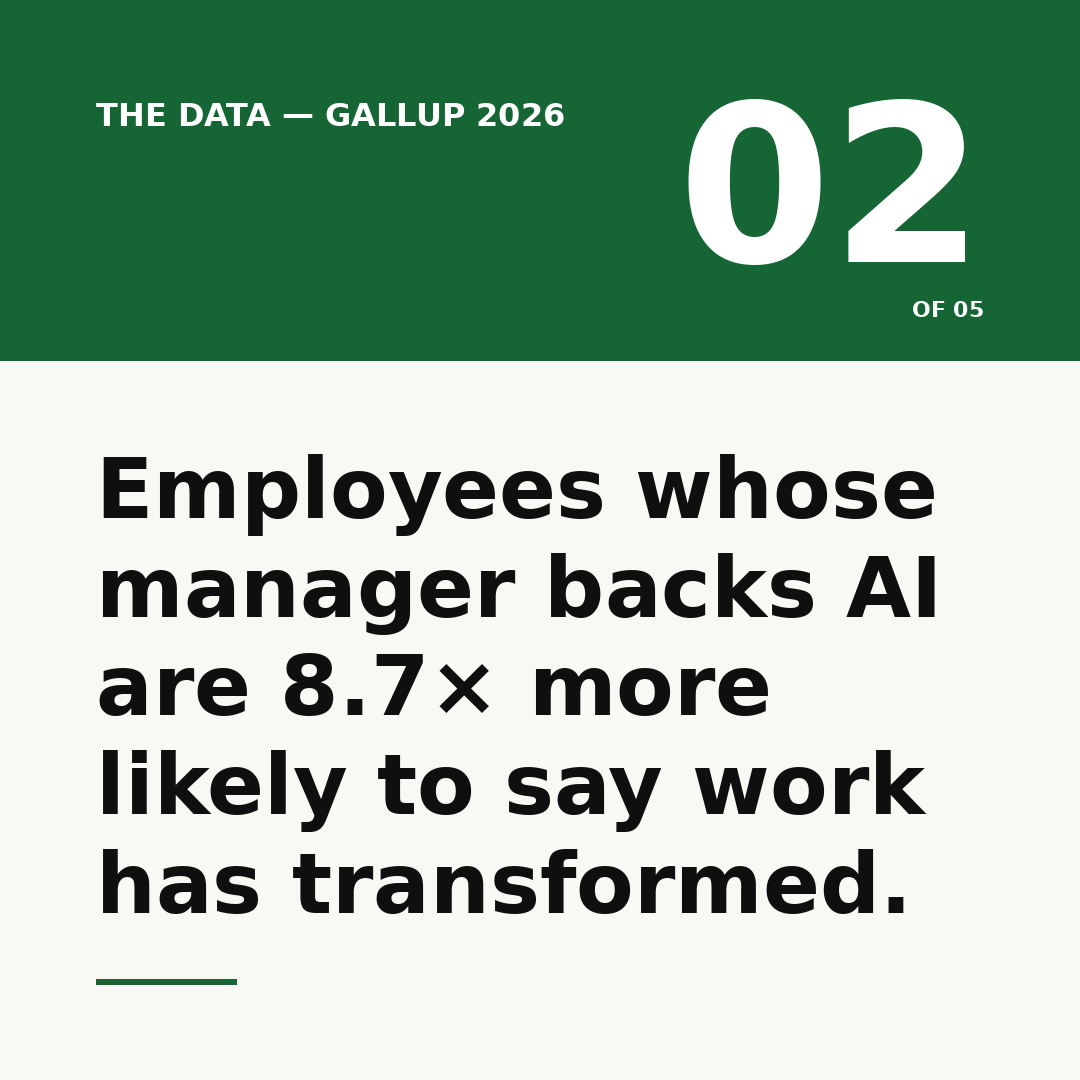
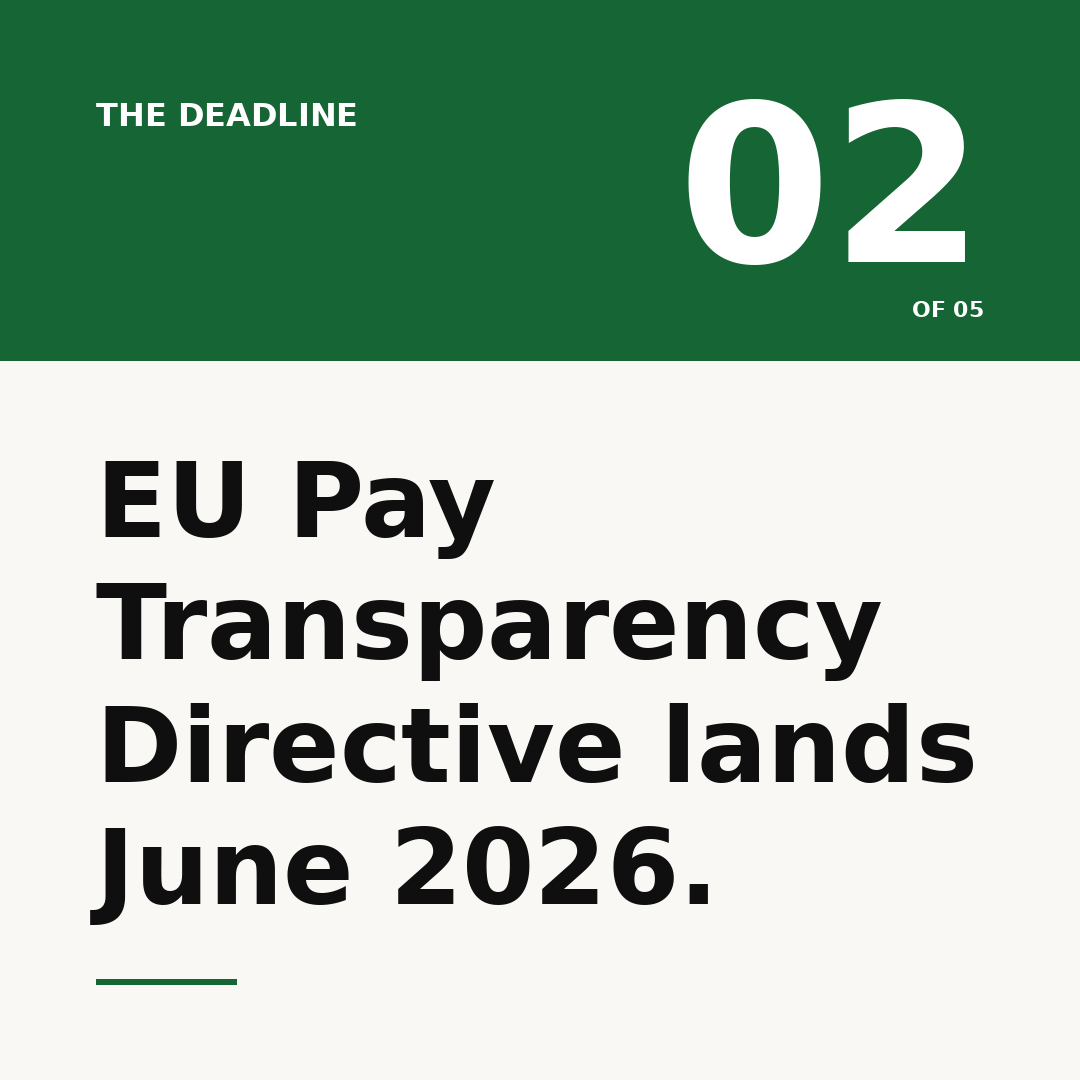
/linkedin-post run for 2026-05-19 (v2): three new themes
Fresh angles drawn from themes not used in the morning batch:
wellbeing/FOBO (Mercer/Gallup/Deloitte/WTW), internal mobility
(Deloitte/McKinsey/Mercer), and pay transparency (Aon/WTW with
EU directive landing June 2026). Same source catalog, same Style C
carousels, same word ceiling. Source catalog unchanged — no new
firms cleared the discovery bar this run.

Changed region(s): [[0.0611, 0.3972, 0.9167, 0.8556], [0.1833, 0.0917, 0.5194, 0.1222]]

diff --git a/posts/drafts/best-practices-2026-05-19.md b/posts/drafts/best-practices-2026-05-19.md
@@ -1,87 +1,84 @@
-# Daily HR best-practices posts — 2026-05-19
+# Daily HR best-practices posts — 2026-05-19 (v2)
 
 Source brief: posts/drafts/best-practices-research-2026-05-19.md
-Themes covered: #1 (Human-AI work redesign, 6 firms), #2 (AI literacy/reskilling, 6 firms), #3 (Manager engagement, 3 firms).
+Themes covered: #4 (Wellbeing & FOBO, 4 firms), #5 (Internal mobility/skills, 3 firms), #7 (Pay transparency, 2 firms).
+
+Previous run (themes #1/#2/#3 — work design, reskill rate, managers) preserved in git at commit `c2400ef`.
 
 ---
 
-## Option 1 — ai-is-work-design
-- **Theme:** Human-AI work redesign as the central operating challenge
-- **Source reports:** BCG "AI Will Reshape More Jobs Than It Replaces" (2026); Mercer Global Talent Trends 2026; Deloitte 2026 Global Human Capital Trends
-- **Source URLs:** https://www.bcg.com/publications/2026/ai-will-reshape-more-jobs-than-it-replaces · https://www.mercer.com/about/newsroom/mercer-s-global-talent-trends-2026-report/
-- **Image (single):** posts/drafts/images/2026-05-19-option-1.png
+## Option 1 — wellbeing-is-the-velocity-gate
+- **Theme:** Wellbeing, burnout and FOBO as productivity threat
+- **Source reports:** Mercer Global Talent Trends 2026; Gallup State of the Global Workplace 2026; Deloitte 2026 Global Human Capital Trends; WTW 2026 Global Medical Trends
+- **Source URLs:** https://www.mercer.com/about/newsroom/mercer-s-global-talent-trends-2026-report/ · https://www.gallup.com/workplace/349484/state-of-the-global-workplace.aspx
 - **Carousel (5 slides):** posts/drafts/carousels/2026-05-19-option-1/
-  - slide-1 · Future of work · "AI isn't a tech project. It's a work-design project."
-  - slide-2 · The data — BCG 2026 · "50–55% of jobs will be significantly reshaped within three years."
-  - slide-3 · What's really happening · "The shift isn't from people to machines. It's in how the work itself is shaped."
-  - slide-4 · The CHRO read · "Firms making AI ROI in 2026 redesigned roles first, then deployed tools."
-  - slide-5 · Your move · "Where does work design sit in your AI stack?"
-- **Image alt:** Minimalist navy-accented card: "AI isn't a tech project. It's a work-design project."
+  - slide-1 · Wellbeing · "Wellbeing is the velocity gate on AI."
+  - slide-2 · The data — Mercer 2026 · "44% of employees report thriving at work. Down from 66% in 2024."
+  - slide-3 · The trend — Mercer 2026 · "AI job-loss fear: 28% in 2024. 40% in 2026."
+  - slide-4 · The CHRO read · "Depleted workforces don't ship the productivity AI promises."
+  - slide-5 · Your move · "Are we designing for human pace alongside compute pace?"
+- **Image alt:** Minimalist navy-accented card: "Wellbeing is the velocity gate on AI."
 - **Word count:** 49
 - **Status:** draft
 
 ---POST---
-AI value lives in work design.
+Wellbeing is now the velocity gate on AI.
 
-BCG 2026: 50-55% of jobs will be reshaped within three years. Not replaced. Reshaped.
+Mercer 2026: 44% of employees report thriving at work, down from 66% in 2024. AI job-loss fear climbed from 28% to 40%.
 
-The CHROs leading this year are co-architecting roles before tools land. That's where compounding returns come from.
+Depleted workforces don't ship AI's promised productivity. The opportunity: design for human pace alongside compute pace.
 
-The model was never the bottleneck. Work design is.
-
-#FutureOfWork #PeopleStrategy #AIatWork
+#Wellbeing #FutureOfWork #PeopleStrategy
 ---END---
 
 ---
 
-## Option 2 — ai-strategy-is-reskill-rate
-- **Theme:** AI literacy and reskilling at scale as the binding constraint
-- **Source reports:** Aon 2026 Human Capital Trends Study; WEF Reskilling Revolution update (Jan 2026); Mercer Global Talent Trends 2026
-- **Source URLs:** https://www.aon.com/en/insights/reports/human-capital-trends-study · https://www.weforum.org/press/2026/01/world-economic-forum-reskilling-revolution-on-track-to-reach-over-850-million-people/
-- **Image (single):** posts/drafts/images/2026-05-19-option-2.png
+## Option 2 — internal-mobility-is-the-asset
+- **Theme:** Skills-based workforce planning and internal mobility as the retention lever
+- **Source reports:** Deloitte 2026 Global Human Capital Trends; McKinsey State of Organizations 2026; Mercer 2025/2026 Skills Snapshot
+- **Source URLs:** https://www.deloitte.com/us/en/insights/topics/talent/internal-talent-marketplace.html · https://www.mckinsey.com/capabilities/people-and-organizational-performance/our-insights/the-state-of-organizations
 - **Carousel (5 slides):** posts/drafts/carousels/2026-05-19-option-2/
-  - slide-1 · Reskilling · "Your AI strategy is your reskill rate."
-  - slide-2 · The deploy rate — Aon 2026 · "73% of organizations have deployed or piloted AI programs."
-  - slide-3 · The reskill rate — Aon 2026 · "Only 18% reskilled most of their workforce in the past year."
-  - slide-4 · The CHRO read · "Tools deployed, capability missing. That's a gap, not a strategy."
-  - slide-5 · Your move · "What's your real reskill rate?"
-- **Image alt:** Minimalist rust-accented card: "Your AI strategy is your reskill rate."
-- **Word count:** 46
-- **Status:** draft
-
----POST---
-The strongest AI advantage in 2026 isn't the model. It's the reskill rate.
-
-Aon 2026: 73% of organizations deployed AI. Only 18% reskilled most of their workforce.
-
-The firms closing this gap first will compound the advantage. That's where capability turns into capacity.
-
-#AIatWork #Reskilling #HumanResources
----END---
-
----
-
-## Option 3 — managers-are-the-multiplier
-- **Theme:** Manager engagement collapse and leadership development as #1 CHRO priority
-- **Source reports:** Gallup State of the Global Workplace 2026; SHRM 2026 CHRO Priorities and Perspectives; Mercer Global Talent Trends 2026
-- **Source URLs:** https://www.gallup.com/workplace/349484/state-of-the-global-workplace.aspx · https://www.shrm.org/topics-tools/research/2026-chro-priorities-and-perspectives
-- **Image (single):** posts/drafts/images/2026-05-19-option-3.png
-- **Carousel (5 slides):** posts/drafts/carousels/2026-05-19-option-3/
-  - slide-1 · Leadership · "Managers are the AI multiplier."
-  - slide-2 · The data — Gallup 2026 · "Employees whose manager backs AI use are 8.7× more likely to say work has transformed."
-  - slide-3 · The trend — Gallup 2026 · "Manager engagement: 31% in 2022. 22% in 2025."
-  - slide-4 · The CHRO read · "Manager development isn't soft investment. It's where AI ROI shows up — or doesn't."
-  - slide-5 · Your move · "What did you put behind your manager layer this quarter?"
-- **Image alt:** Minimalist moss-green-accented card: "Managers are the AI multiplier."
+  - slide-1 · Talent strategy · "The retention lever sits inside your own walls."
+  - slide-2 · The data — Deloitte 2026 · "Internal mobility nearly doubles tenure: 7.4 vs 4.1 years."
+  - slide-3 · The trend — McKinsey 2026 · "47% of leaders name limited career progression as the top culture barrier."
+  - slide-4 · The CHRO read · "External hiring is contracting. The career inside is the asset."
+  - slide-5 · Your move · "How fluid is the career inside your walls?"
+- **Image alt:** Minimalist rust-accented card: "The retention lever sits inside your own walls."
 - **Word count:** 49
 - **Status:** draft
 
 ---POST---
-The manager role is the lever of the decade.
+The retention lever sits inside your own walls.
 
-Gallup 2026: manager engagement dropped 9 points in three years. A layer built for industrial pace is being tested by AI's speed.
+Deloitte 2026: internal mobility nearly doubles tenure (7.4 vs 4.1 years). McKinsey 2026: 47% of leaders name limited career progression as the top barrier to high-performance culture.
 
-The opportunity isn't fewer managers. It's a redesigned role: fewer reporting lines, more leadership depth.
+External hiring is contracting. The career inside is now the asset.
 
-#Leadership #FutureOfWork #PeopleStrategy
+#Retention #InternalMobility #SkillsFirst
+---END---
+
+---
+
+## Option 3 — pay-transparency-is-a-strategy-test
+- **Theme:** Pay transparency execution and dynamic total rewards
+- **Source reports:** Aon 2026 Human Capital Outlook; WTW 2026 Salary Budget Planning Survey; WTW "Countering disruptions with dynamic total rewards strategies" (Jan 2026)
+- **Source URLs:** https://www.wtwco.com/en-us/insights/2026/01/countering-disruptions-with-dynamic-total-rewards-strategies-actions-for-2026 · https://www.aon.com/en/insights/articles/2026-human-capital-outlook-5-forces-to-act-on
+- **Carousel (5 slides):** posts/drafts/carousels/2026-05-19-option-3/
+  - slide-1 · Compensation · "Pay transparency is a strategy test."
+  - slide-2 · The deadline · "EU Pay Transparency Directive lands June 2026."
+  - slide-3 · The data — WTW 2026 · "US salary budgets stable at 3.4%. No extra cash to paper over gaps."
+  - slide-4 · The CHRO read · "Defend the criteria, not just the number."
+  - slide-5 · Your move · "Can you explain every band you're about to publish?"
+- **Image alt:** Minimalist moss-accented card: "Pay transparency is a strategy test."
+- **Word count:** 48
+- **Status:** draft
+
+---POST---
+Pay transparency is a strategy test, not a compliance one.
+
+EU Pay Transparency Directive: June 2026. WTW 2026: US budgets stable at 3.4% — no extra cash to paper over gaps.
+
+CHROs ready to defend the criteria, not just the number, will lead this cycle.
+
+#Compensation #PayTransparency #PeopleStrategy
 ---END---
